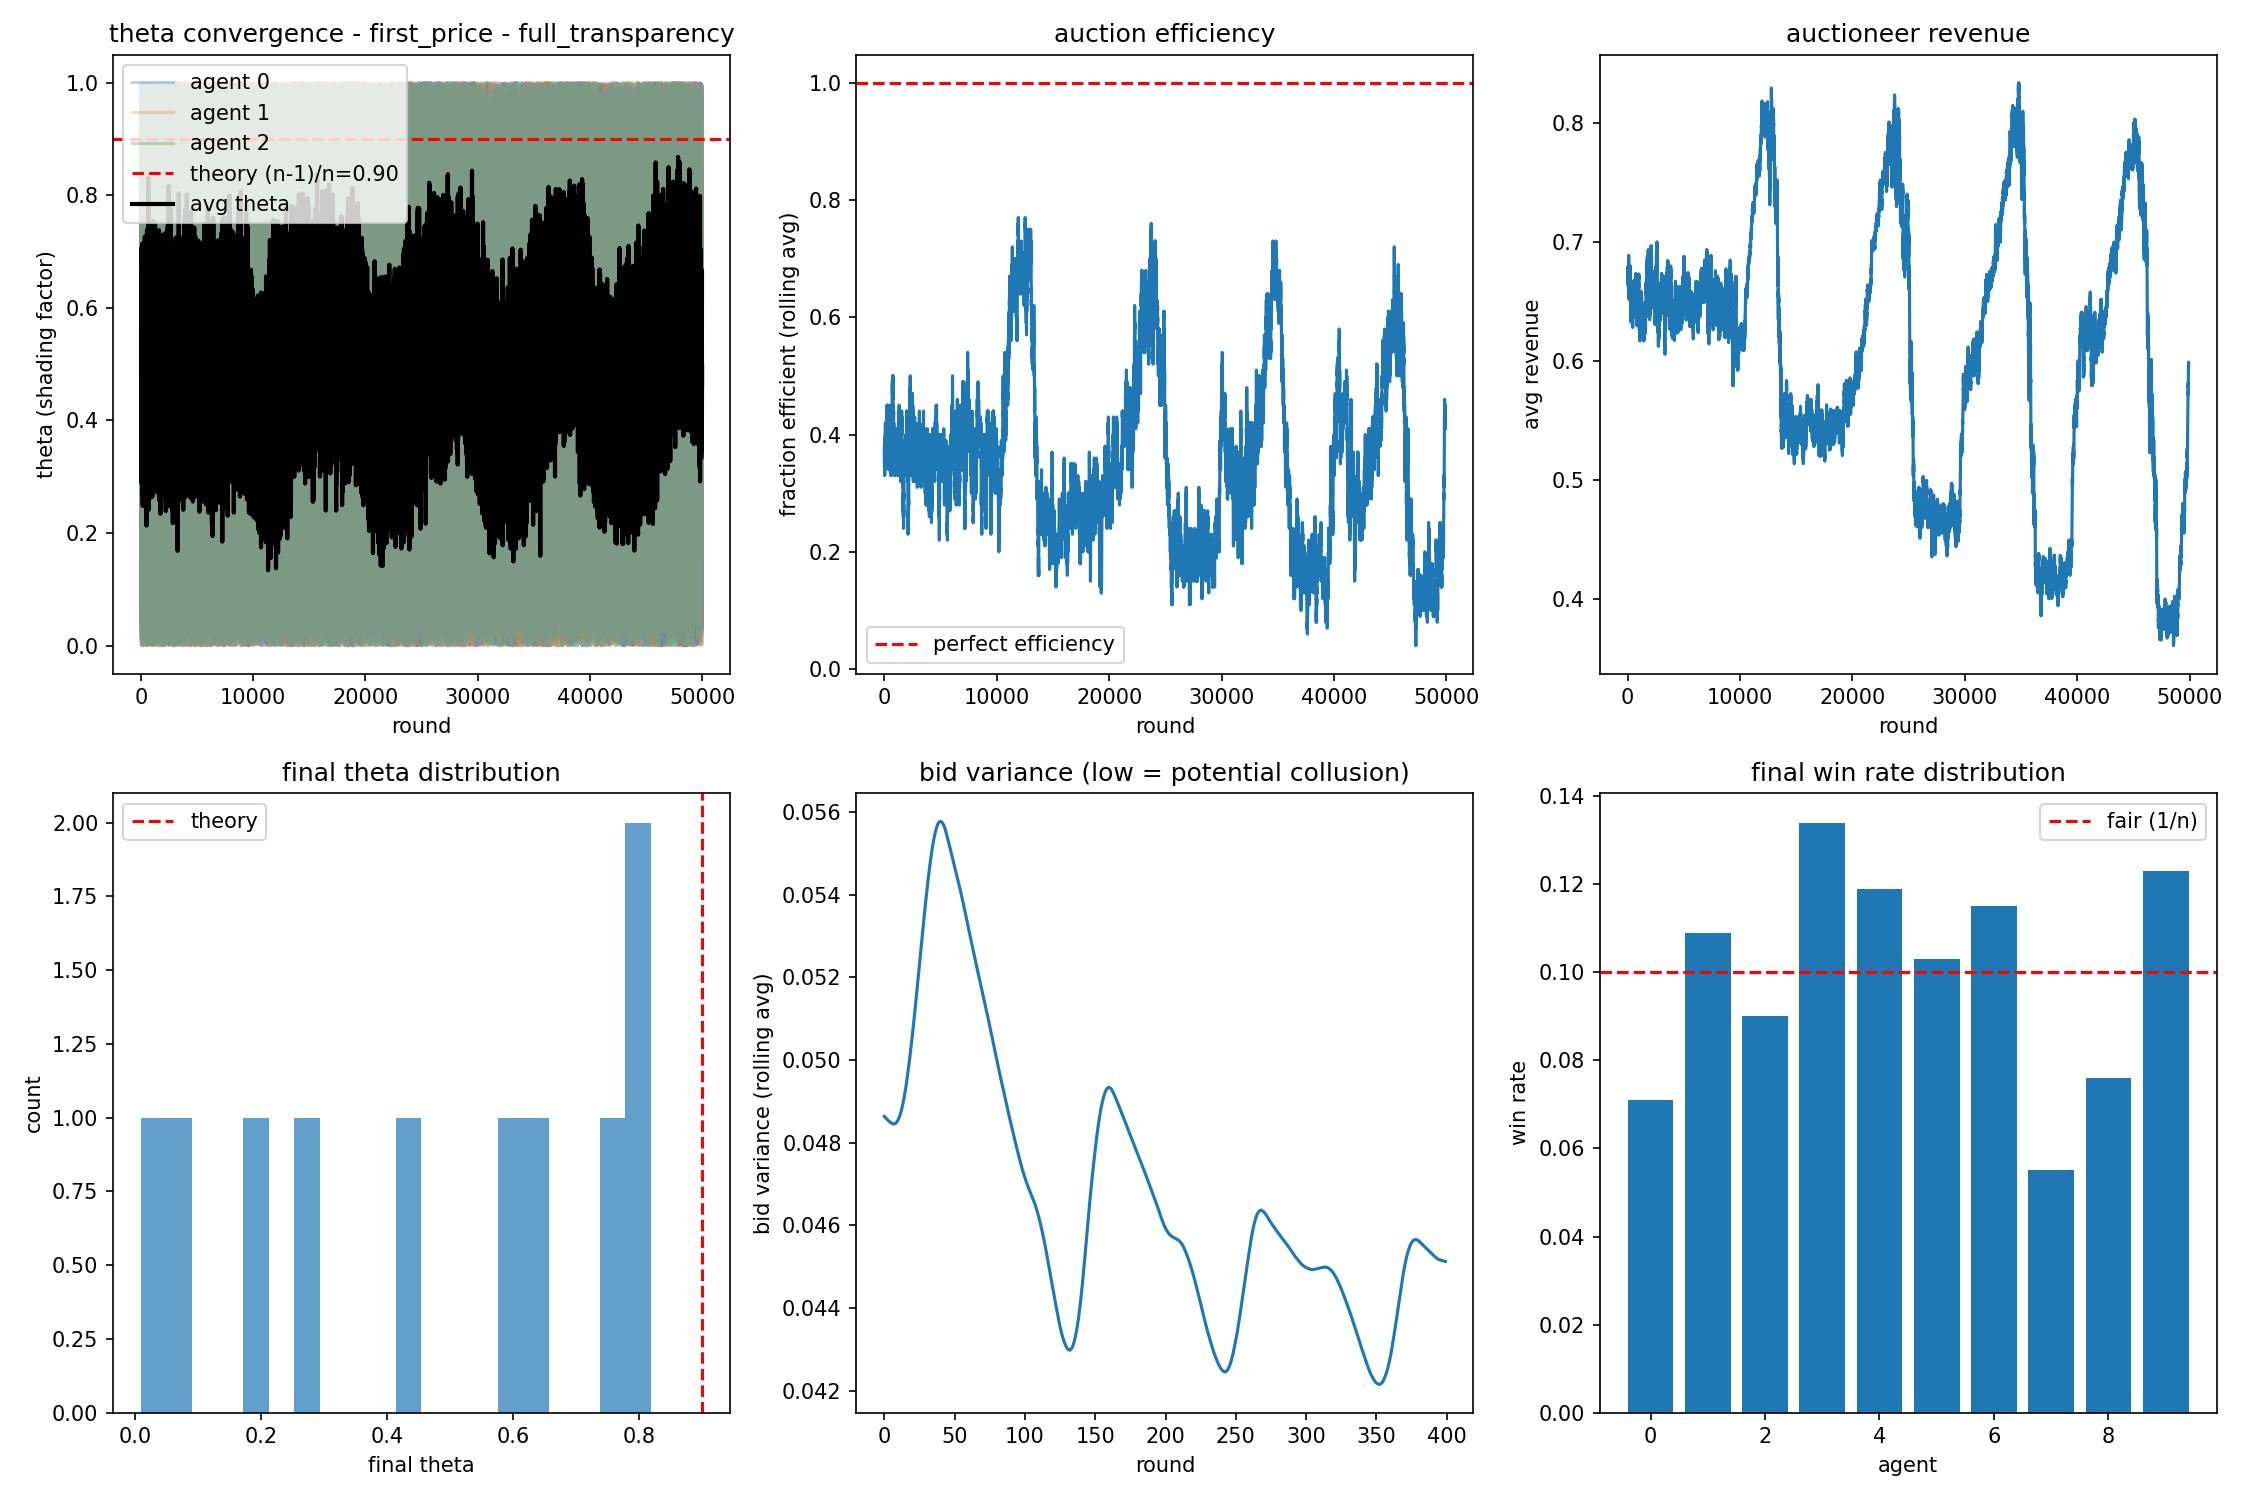
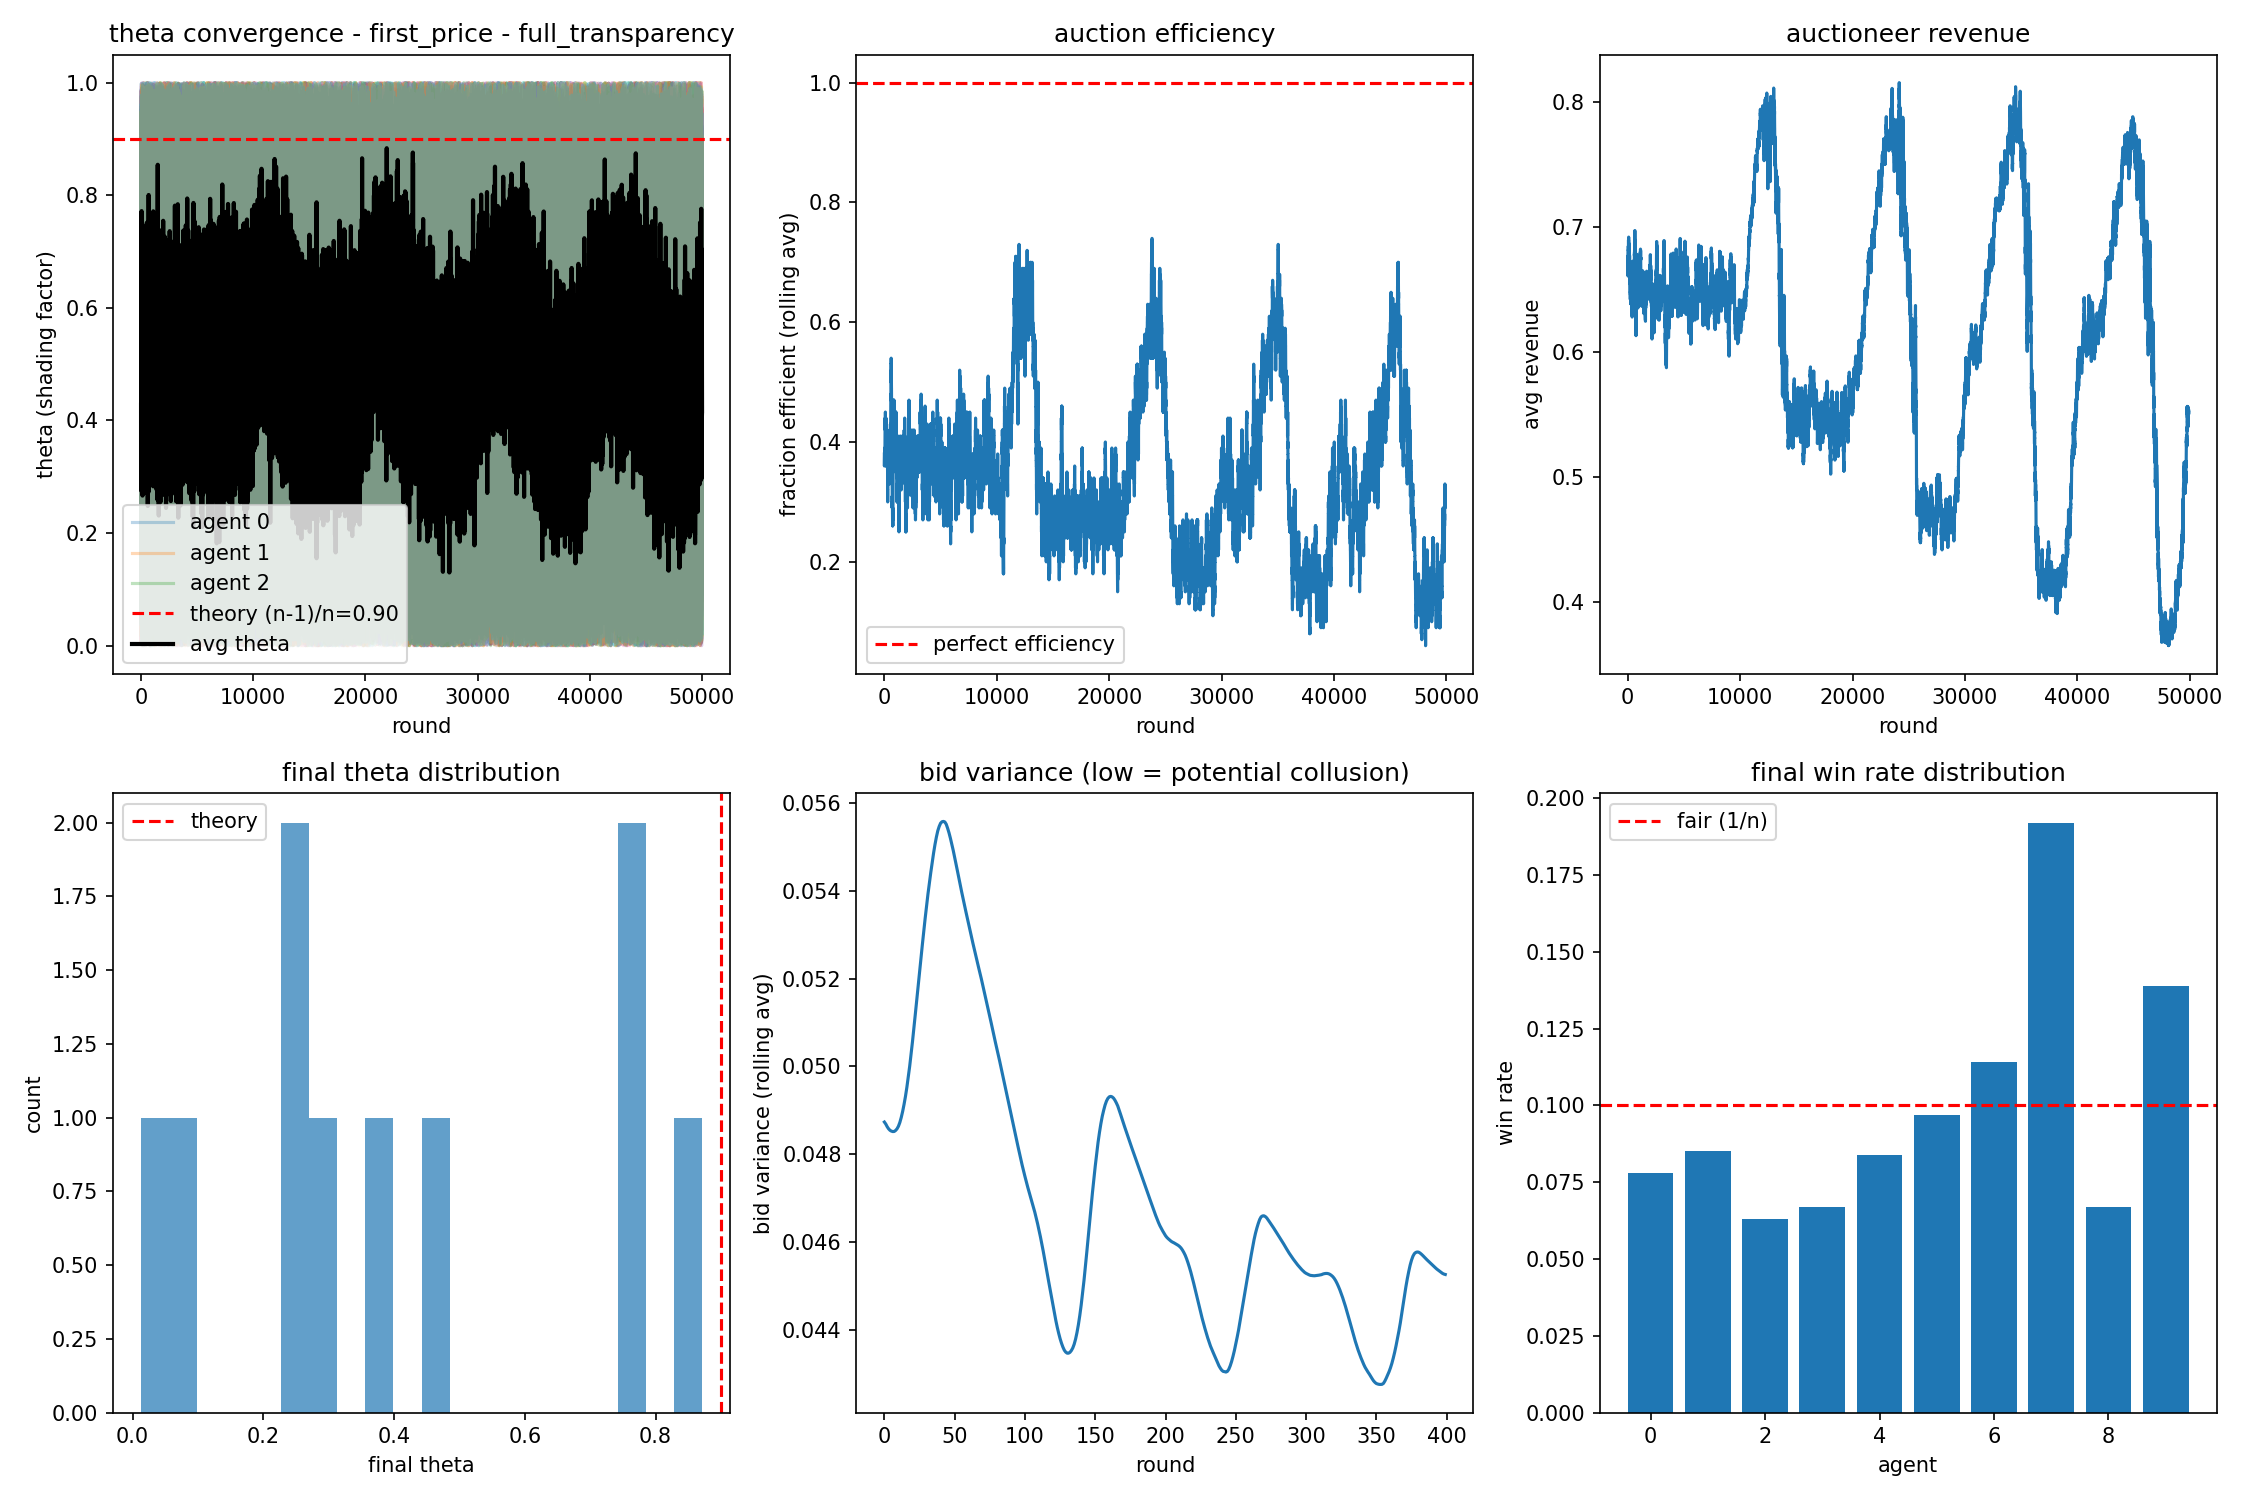
changed MAB theta logic

diff --git a/imperfect_info_auctions.py b/imperfect_info_auctions.py
@@ -568,7 +568,7 @@ class BanditAgent:
         The agent only uses the information revealed to them (in outcome.agent_info).
         """
         info = outcome.agent_info[self.agent_id]
-        bid = value * (1 - chosen_theta)
+        bid = value * chosen_theta
         won = info.won
         utility = self.compute_utility(value, won, outcome.winning_bid)
         
@@ -662,7 +662,7 @@ class EpsilonGreedyBanditAgent:
     
     def update(self, value: float, chosen_theta: float, outcome: AuctionOutcome):
         info = outcome.agent_info[self.agent_id]
-        bid = value * (1 - chosen_theta)
+        bid = value * chosen_theta
         won = info.won
         utility = self.compute_utility(value, won, outcome.winning_bid)
         
@@ -752,7 +752,7 @@ def plot_imperfect_info_results(
     
     plt.tight_layout()
     agent_suffix = f"_{agent_type}" if agent_type else ""
-    filename = f'auction_{auction_type.value if auction_type else "first_price"}_{info_type.value}{agent_suffix}.png'
+    filename = f'graphs/auction_{auction_type.value if auction_type else "first_price"}_{info_type.value}{agent_suffix}.png'
     plt.savefig(filename, dpi=150)
     plt.close()  # Close to avoid showing plot during batch run
 
@@ -854,11 +854,11 @@ def run_imperfect_info_simulation(
         
         # Run auction based on type
         if auction_type == AuctionType.FIRST_PRICE:
-            bids = np.array([values[i] * (1 - thetas[i]) for i in range(n_agents)])
+            bids = np.array([values[i] * thetas[i] for i in range(n_agents)])
             outcome = auction.run_auction(bids, values)
         elif auction_type == AuctionType.ASCENDING_CLOCK:
             # For ascending clock: theta determines max willingness to pay
-            max_willingness = np.array([values[i] * (1 - thetas[i]) for i in range(n_agents)])
+            max_willingness = np.array([values[i] * thetas[i] for i in range(n_agents)])
             
             def dropout_decisions(price, active_agents, values, max_willingness):
                 decisions = np.zeros(n_agents, dtype=bool)
@@ -871,7 +871,7 @@ def run_imperfect_info_simulation(
             outcome = auction.run_auction(dropout_decisions, values, max_willingness)
         elif auction_type == AuctionType.DESCENDING_CLOCK:
             # For descending clock: theta determines min willingness to pay
-            min_willingness = np.array([values[i] * (1 - thetas[i]) for i in range(n_agents)])
+            min_willingness = np.array([values[i] * thetas[i] for i in range(n_agents)])
             
             def dropout_decisions(price, active_agents, values, min_willingness):
                 decisions = np.zeros(n_agents, dtype=bool)

diff --git a/test_imperfect_info.py b/test_imperfect_info.py
@@ -148,7 +148,7 @@ def run_perfect_info_baseline(n_agents, n_rounds):
     ax.legend()
     
     plt.tight_layout()
-    plt.savefig('auction_first_price_perfect_info_baseline.png', dpi=150)
+    plt.savefig('graphs/auction_first_price_perfect_info_baseline.png', dpi=150)
     plt.close()  # Close to avoid showing plot during batch run
     
     return {
@@ -277,14 +277,14 @@ for info_type in InformationType:
         print(f"{info_type.value:<25} {ucb_theta:<15.3f} {eps_theta:<18.3f} {diff:<15.3f}")
 
 print("\n" + "=" * 90)
-print("PLOT FILES GENERATED:")
+print("PLOT FILES GENERATED (in graphs/ folder):")
 print("=" * 90)
-print("  - auction_first_price_perfect_info_baseline.png")
+print("  - graphs/auction_first_price_perfect_info_baseline.png")
 for agent_type in ["ucb", "epsilon_greedy"]:
     for info_type in InformationType:
         key = (agent_type, info_type)
         if key in results:
-            filename = f"auction_first_price_{info_type.value}_{agent_type}.png"
+            filename = f"graphs/auction_first_price_{info_type.value}_{agent_type}.png"
             print(f"  - {filename}")
 
 # Summary and conclusions
